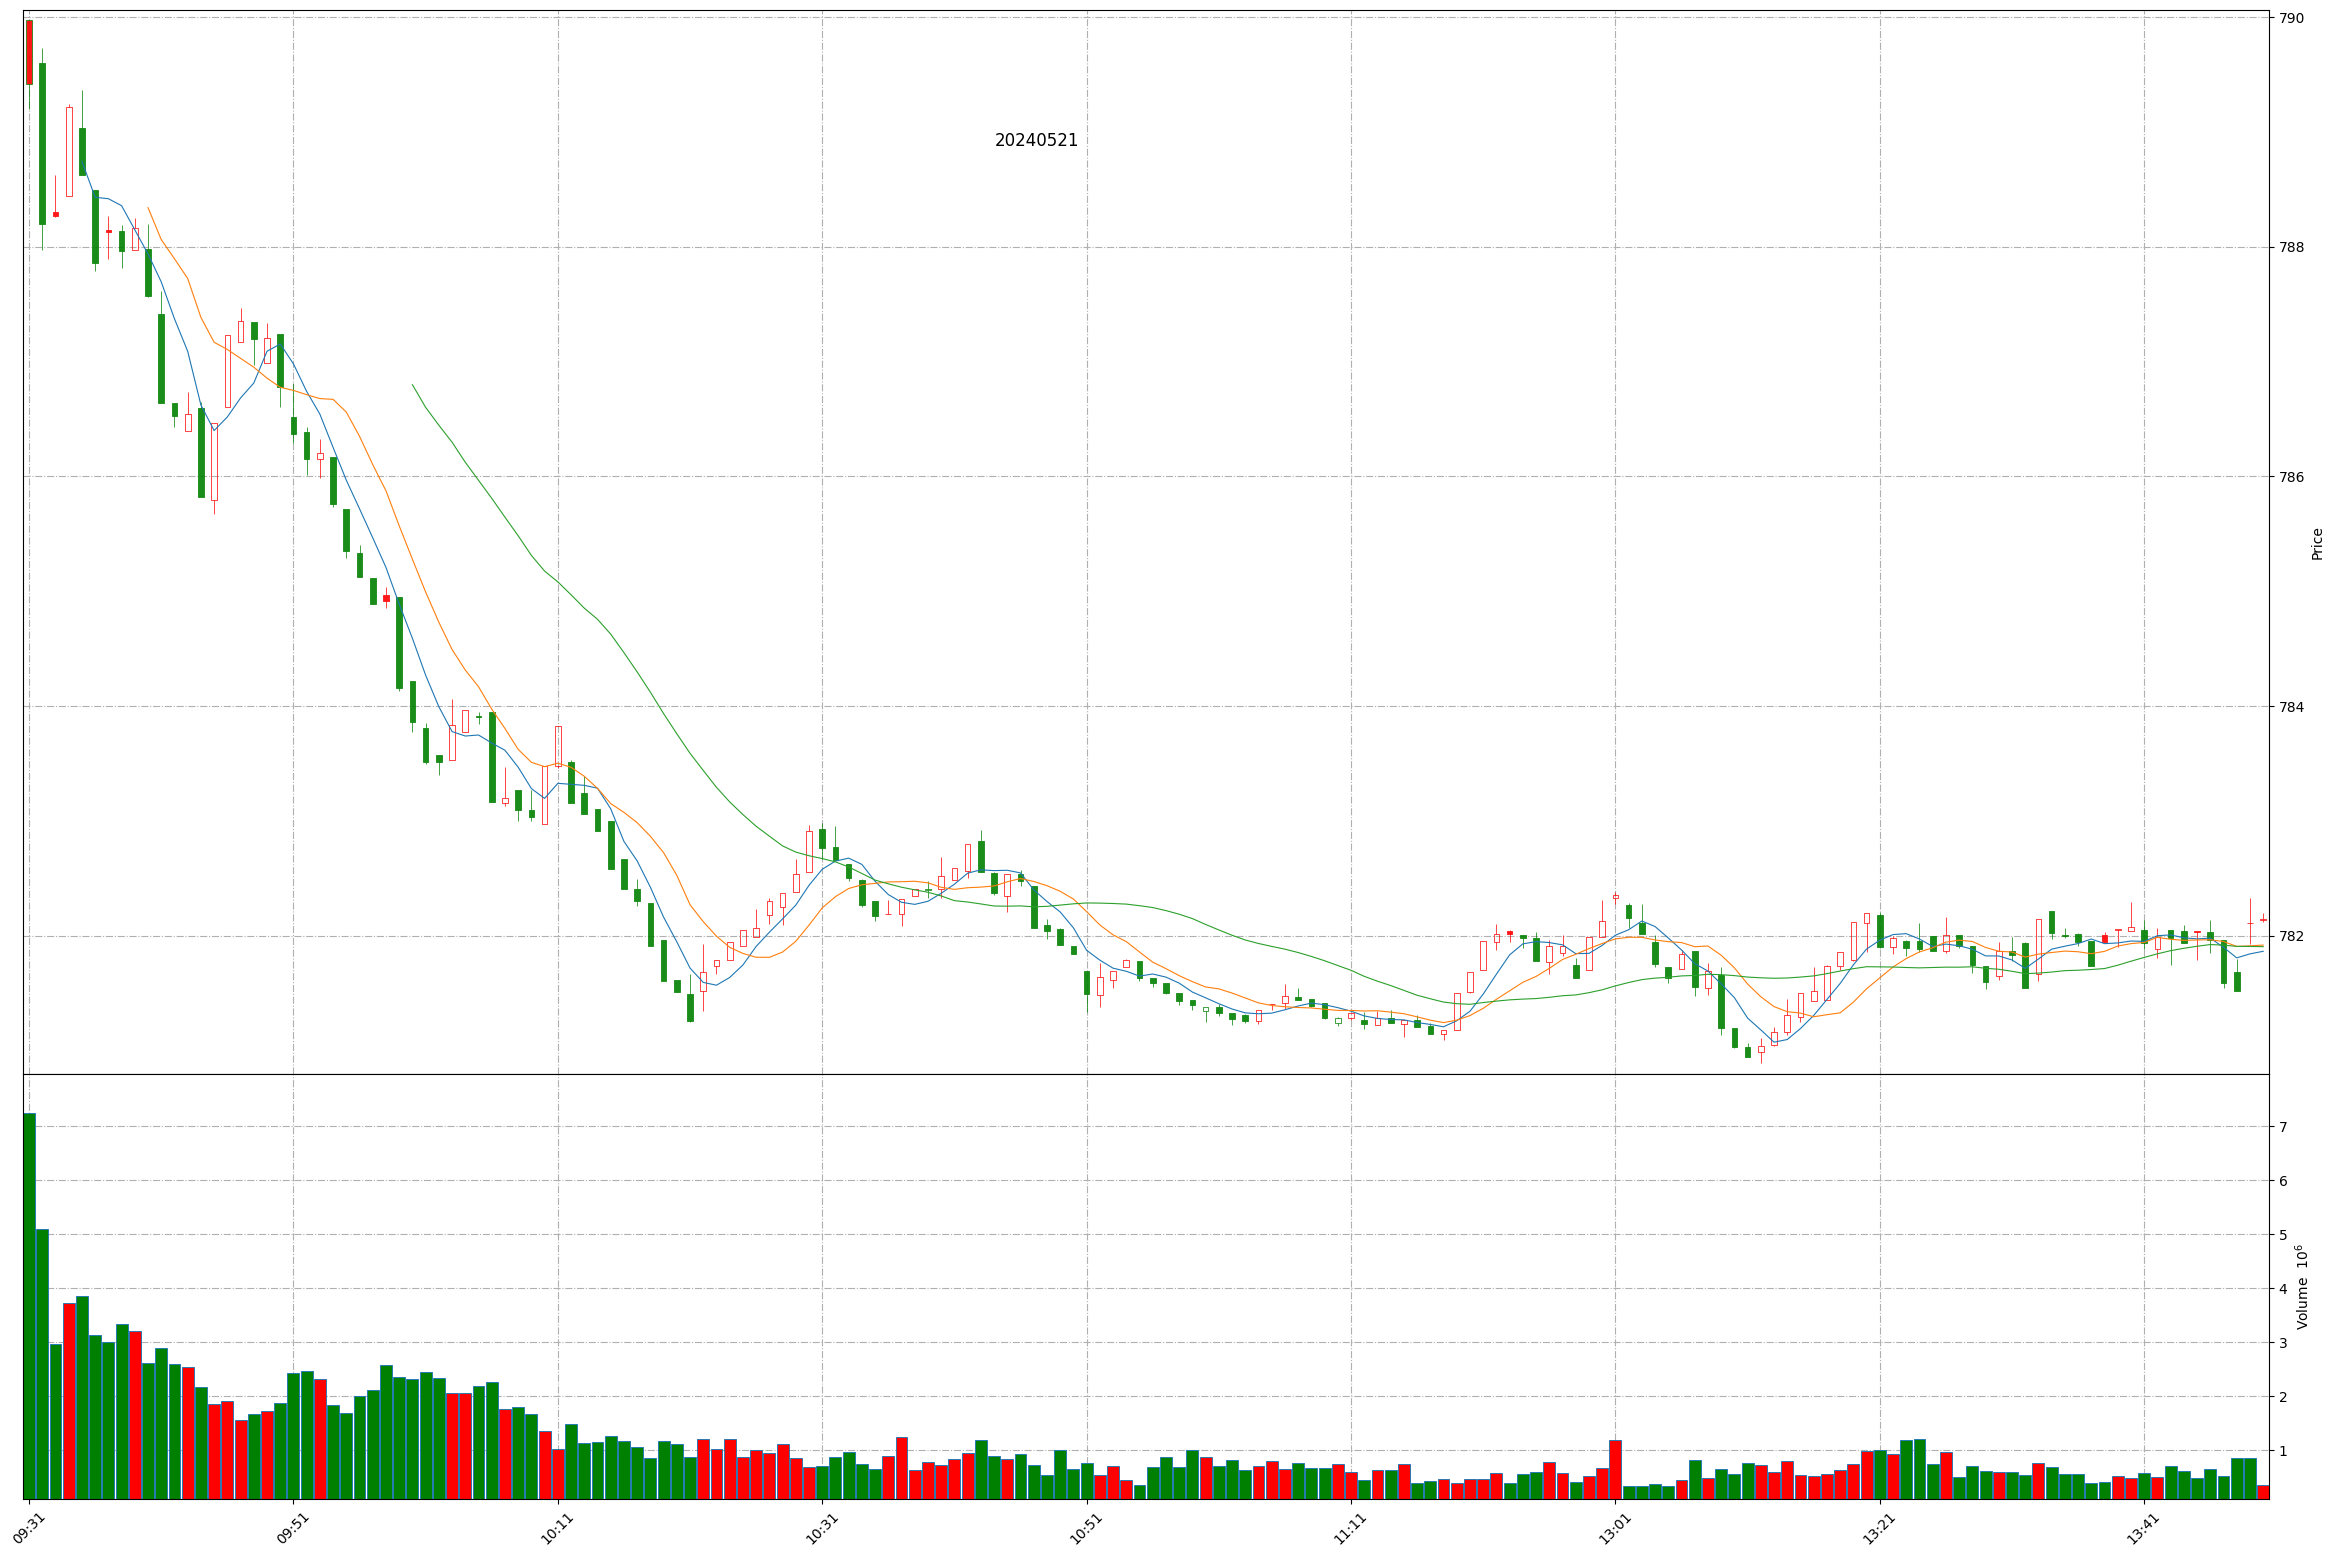
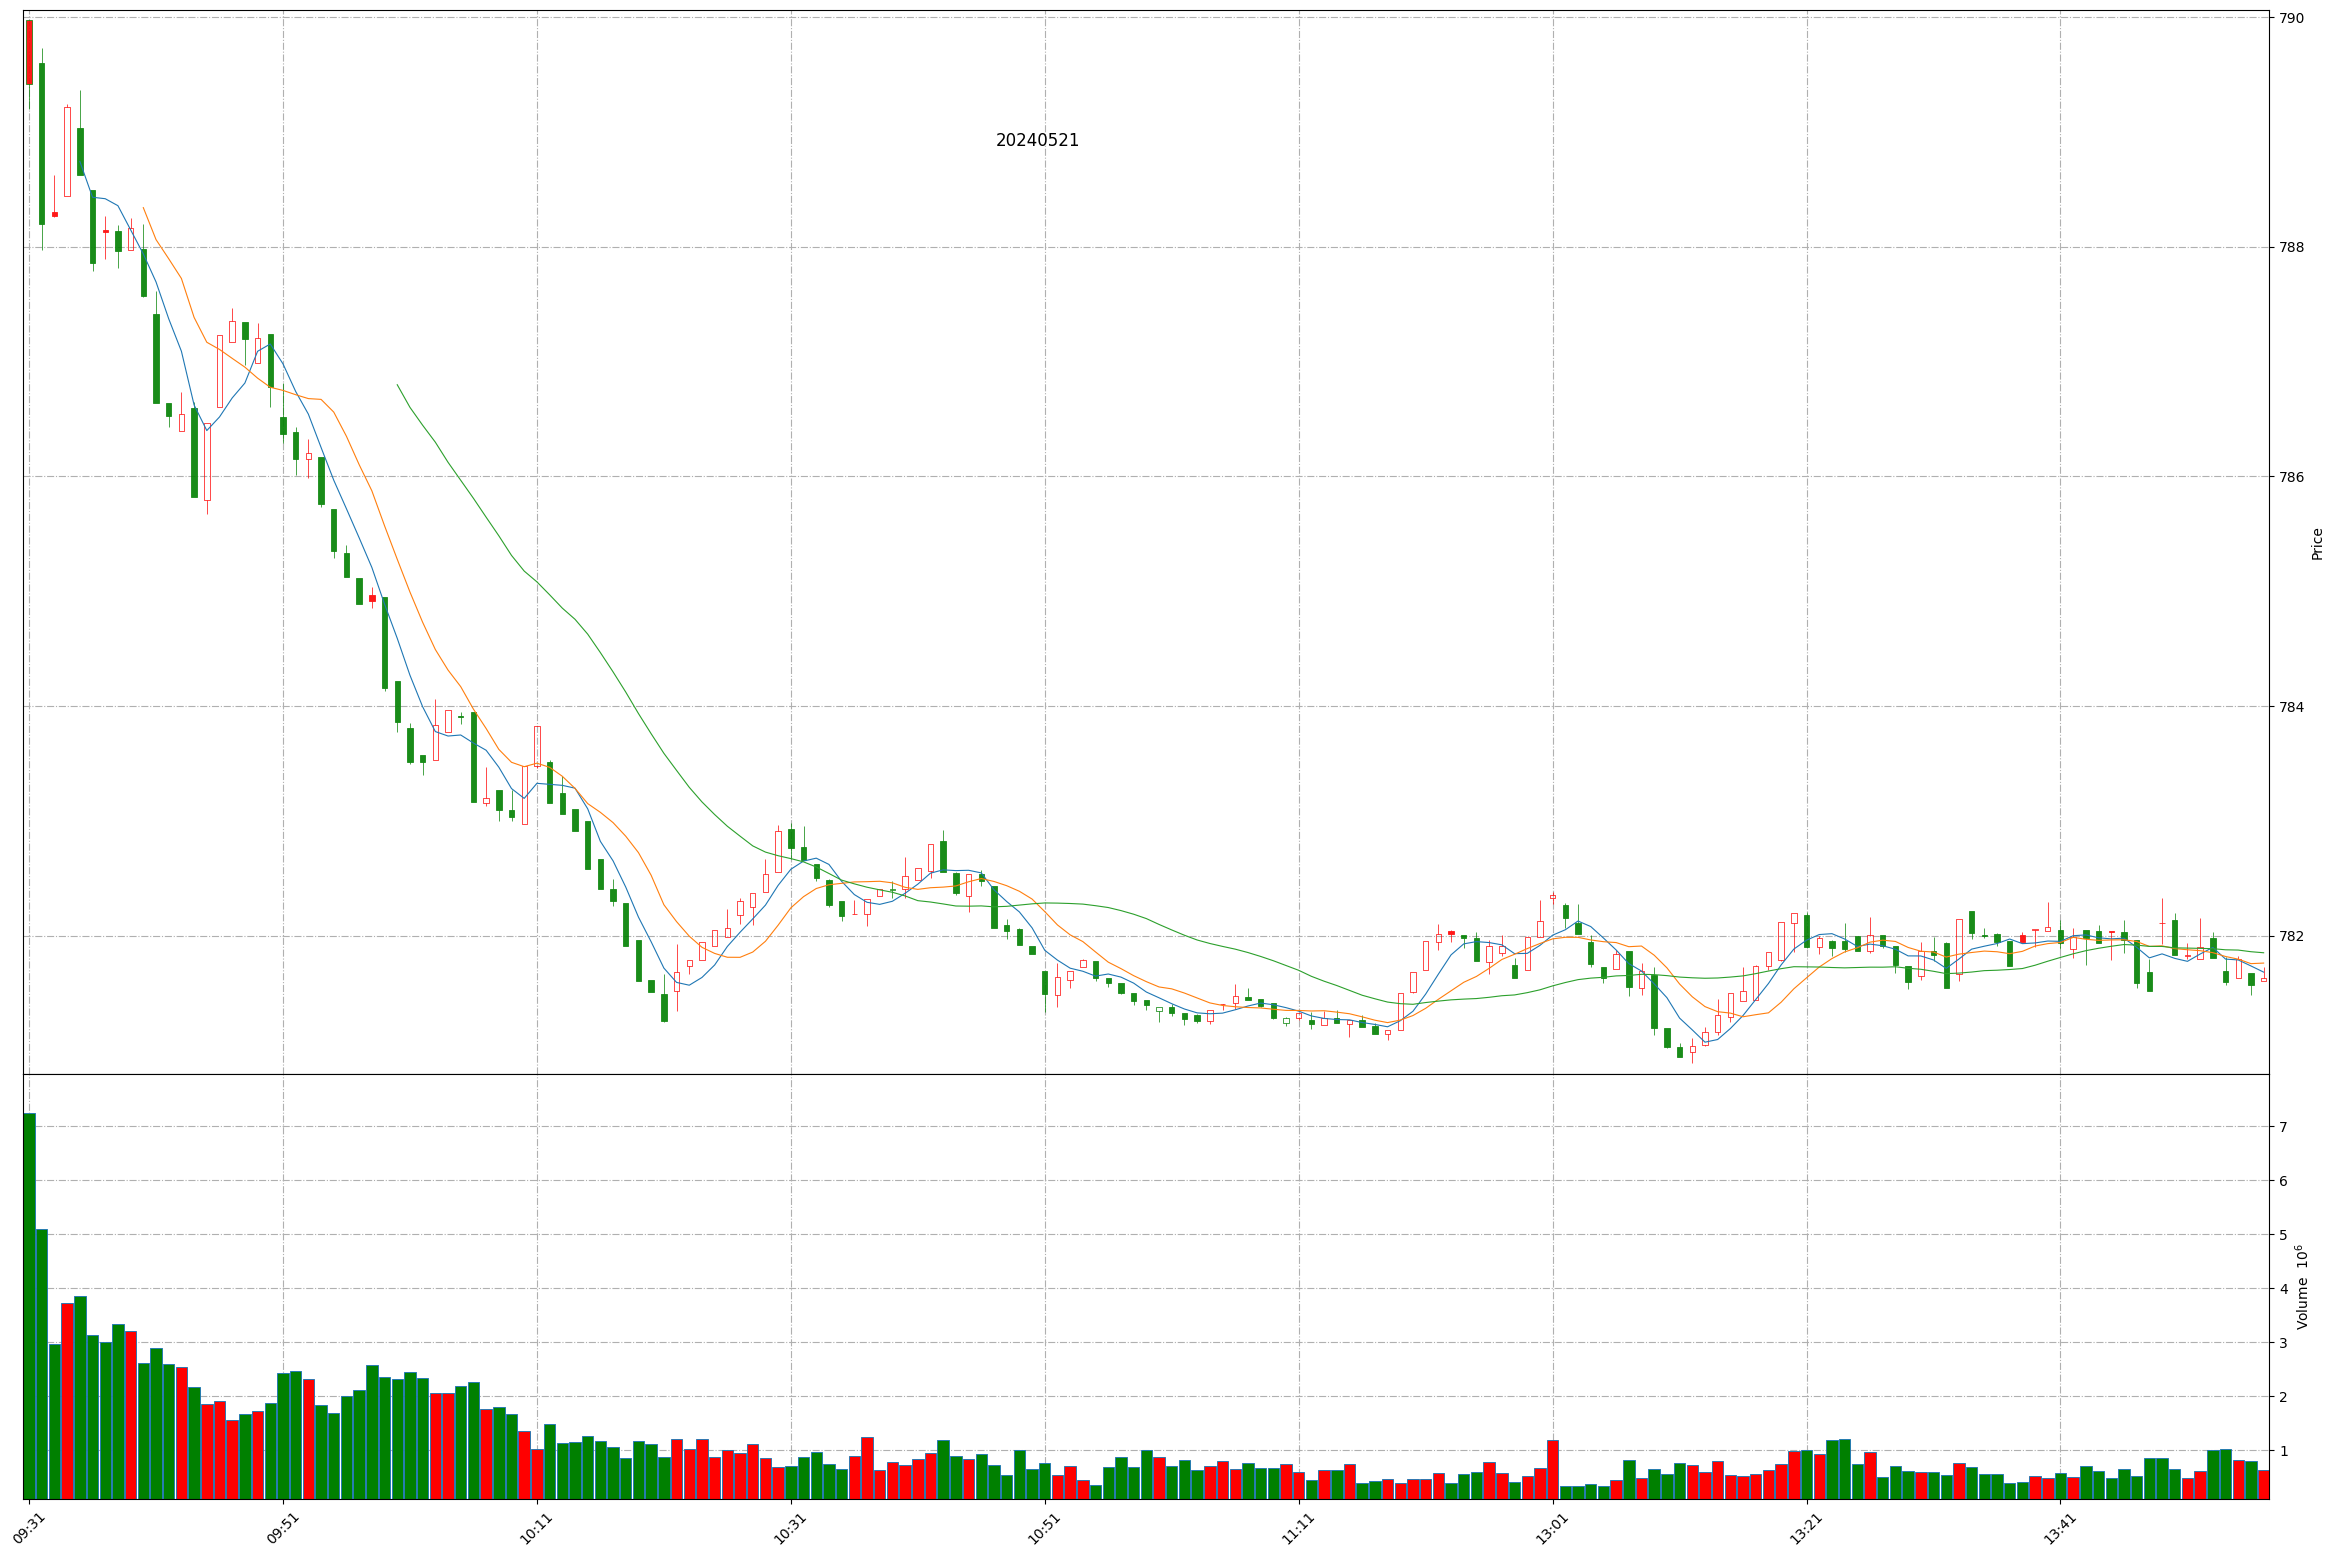
Github action update at 2024-05-21 13:57:13.

diff --git a/README.md b/README.md
@@ -1,11 +1,11 @@
 
 # Daily-A-share-market-quotes 每日 A 股指数（5min 更新）- 20240521
 
-### 上证指数 20240521 13:49
+### 上证指数 20240521 13:57
 ![](./fig/2024/5/20240521-sh000001.png)
 
-### 深证成指 20240521 13:49
+### 深证成指 20240521 13:57
 ![](./fig/2024/5/20240521-sz399001.png)
 
-### 北证50 20240521 13:49
+### 北证50 20240521 13:57
 ![](./fig/2024/5/20240521-bj899050.png)
